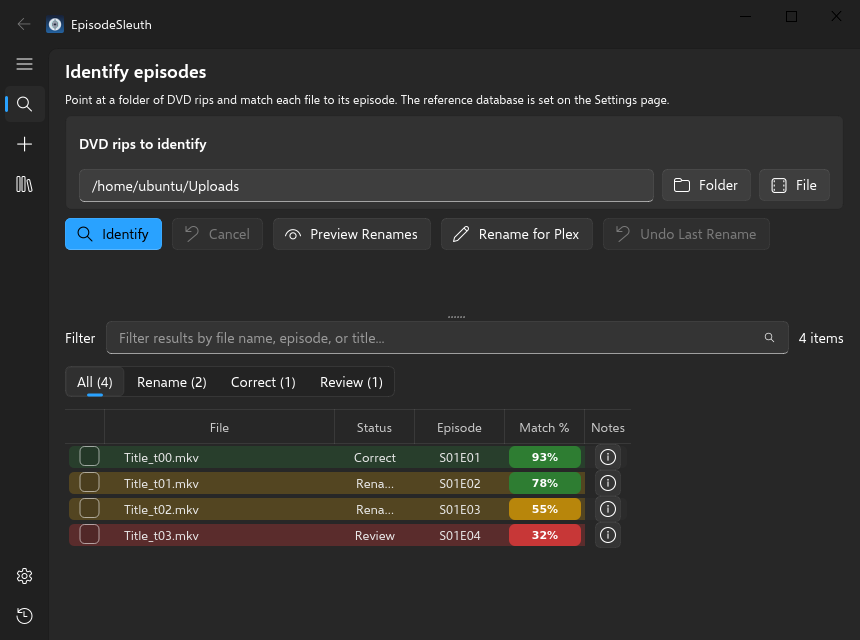
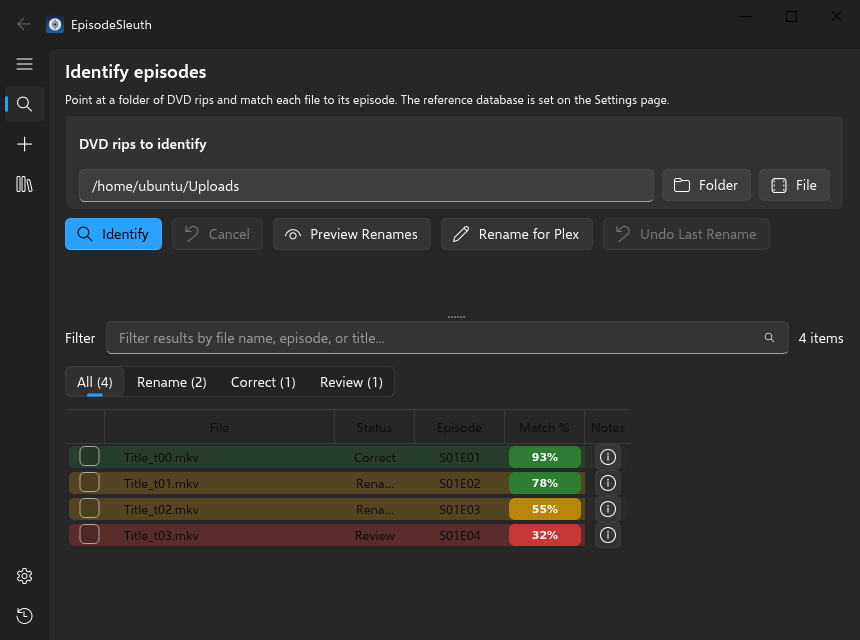
GUI fix: readable table + header text via luminance-based contrast
The washed-out light-mode text was caused by a theme/palette mismatch:
qfluentwidgets isDarkTheme() reports dark (so cell/header text was set
light) while the real Qt palette Base stays white, leaving light text on
a light background. Now derive text colour from the actual composited
background luminance (row tint over palette Base) for data cells, and
override the header section colour by header-background luminance, so
contrast is correct regardless of theme sync.

diff --git a/gui/pages/identify.py b/gui/pages/identify.py
@@ -12,7 +12,7 @@ if TYPE_CHECKING:
     from ..main_window import MainWindow
 
 from PySide6.QtCore import Qt, QTimer
-from PySide6.QtGui import QBrush, QColor
+from PySide6.QtGui import QBrush, QColor, QPalette
 from PySide6.QtWidgets import (
     QAbstractItemView,
     QApplication,
@@ -50,7 +50,6 @@ from qfluentwidgets import (
     TextEdit,
     TitleLabel,
     ToolButton,
-    isDarkTheme,
 )
 from qfluentwidgets import (
     FluentIcon as FIF,
@@ -399,6 +398,19 @@ class IdentifyInterface(QWidget):
         # All columns are user-resizable (Interactive) except the fixed-width
         # checkbox and the narrow Notes-icon column.
         hdr = self.table.horizontalHeader()
+        # Header label contrast: the themed header-section background can leave
+        # the stock label colour washed out (the same theme/palette mismatch
+        # that affected the cells - qfluentwidgets paints header text white when
+        # its theme reports "dark", even while the real header background stays
+        # light). The header painter ignores per-item foreground, so override
+        # the section text colour with a stylesheet, picking near-black or light
+        # from the luminance of the real header-section background.
+        hdr_bg = self.palette().color(QPalette.Dark)
+        hdr_lum = (0.299 * hdr_bg.red() + 0.587 * hdr_bg.green()
+                   + 0.114 * hdr_bg.blue())
+        hdr_color = "#0d0d0d" if hdr_lum > 140 else "#f0f0f0"
+        hdr.setStyleSheet(
+            "QHeaderView::section { color: %s; }" % hdr_color)
         hdr.setSectionResizeMode(QHeaderView.Interactive)
         hdr.setStretchLastSection(False)
         hdr.setSectionResizeMode(self.C_CHECK, QHeaderView.Fixed)
@@ -999,13 +1011,37 @@ class IdentifyInterface(QWidget):
                                auto_check=True)
 
     @staticmethod
-    def _make_text_item(text: str, *, center: bool = False,
-                        tooltip: Optional[str] = None) -> QTableWidgetItem:
+    def _contrast_text_color(tint: Optional[QColor] = None) -> QColor:
+        """Pick a text colour that contrasts with the cell's real background.
+
+        qfluentwidgets' ``isDarkTheme()`` can disagree with the actual Qt
+        palette that paints the table (e.g. the theme reports "dark" while the
+        widget base is still white), which left the old theme-keyed text colour
+        washed out. Instead we composite the semi-transparent row tint over the
+        real palette Base colour and choose near-black or light-gray text from
+        the resulting luminance, so contrast is correct regardless of theme."""
+        base = QApplication.palette().color(QPalette.Base)
+        r, g, b = base.red(), base.green(), base.blue()
+        if tint is not None and tint.alpha() > 0:
+            a = tint.alpha() / 255.0
+            r = tint.red() * a + r * (1.0 - a)
+            g = tint.green() * a + g * (1.0 - a)
+            b = tint.blue() * a + b * (1.0 - a)
+        # Perceptual luminance (ITU-R BT.601 weights).
+        lum = 0.299 * r + 0.587 * g + 0.114 * b
+        return QColor("#0d0d0d") if lum > 140 else QColor("#e8e8e8")
+
+    @classmethod
+    def _make_text_item(cls, text: str, *, center: bool = False,
+                        tooltip: Optional[str] = None,
+                        tint: Optional[QColor] = None) -> QTableWidgetItem:
         """Build a plain, non-editable table cell.
 
         When no explicit tooltip is given, the cell's full text is used as its
         tooltip so values truncated with an ellipsis in a narrow column can
-        still be read in full on hover."""
+        still be read in full on hover. ``tint`` is the row's background tint
+        (if any) so the text colour can be chosen for maximum contrast against
+        the composited background."""
         text = str(text)
         item = QTableWidgetItem(text)
         if center:
@@ -1014,11 +1050,7 @@ class IdentifyInterface(QWidget):
             item.setToolTip(tooltip)
         elif text.strip():
             item.setToolTip(text)
-        # Explicit theme-aware text colours for maximum contrast. The palette's
-        # WindowText washed out in light mode, so pin near-black on light and
-        # light-gray on dark instead.
-        item.setForeground(QBrush(
-            QColor("#e8e8e8") if isDarkTheme() else QColor("#0d0d0d")))
+        item.setForeground(QBrush(cls._contrast_text_color(tint)))
         return item
 
     @staticmethod
@@ -1117,18 +1149,24 @@ class IdentifyInterface(QWidget):
         suggested = data.get("suggested_filename", "")
         suggested_disp = "-" if status == "correct" else (suggested or "-")
 
-        # Populate the text columns via the small item builder.
+        # Populate the text columns via the small item builder. The row tint is
+        # passed so each cell's text colour is chosen for contrast against it.
+        tint = appear.tint
         self.table.setItem(row, self.C_FILE,
-                           self._make_text_item(data["filename"]))
+                           self._make_text_item(data["filename"], tint=tint))
         self.table.setItem(row, self.C_STATUS,
-                           self._make_text_item(appear.text, center=True))
+                           self._make_text_item(appear.text, center=True,
+                                                tint=tint))
         self.table.setItem(row, self.C_EPISODE,
-                           self._make_text_item(data["episode_id"], center=True))
+                           self._make_text_item(data["episode_id"],
+                                                center=True, tint=tint))
         self.table.setItem(row, self.C_AGREE,
-                           self._make_text_item(data["agreement"], center=True))
+                           self._make_text_item(data["agreement"],
+                                                center=True, tint=tint))
 
         # Episode Title - flag a swapped/mismatched title with a badge icon.
-        title_item = self._make_text_item(data.get("episode_title", ""))
+        title_item = self._make_text_item(data.get("episode_title", ""),
+                                          tint=tint)
         if self._title_mismatch(r, data):
             # Render the flag in an explicit high-contrast red so it stays
             # visible on tinted status rows (the theme default can wash out).
@@ -1143,7 +1181,8 @@ class IdentifyInterface(QWidget):
             suggested_disp,
             center=(suggested_disp == "-"),
             tooltip=("Already correctly named - no rename needed."
-                     if status == "correct" else None))
+                     if status == "correct" else None),
+            tint=tint)
         self.table.setItem(row, self.C_SUGGESTED, sugg_item)
 
         # Match % - a placeholder item carries the row tint; the pill sits on top.
